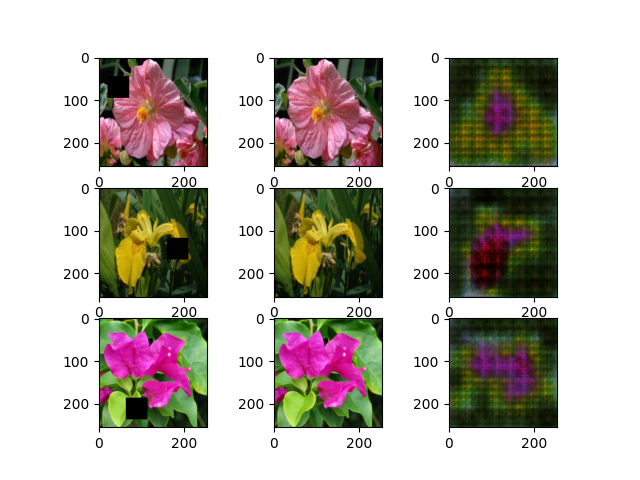
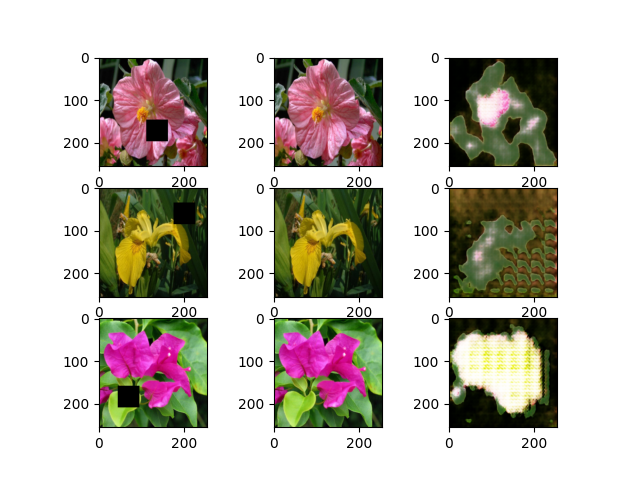
Final Retrain

diff --git a/train-flowers.py b/train-flowers.py
@@ -18,9 +18,9 @@ if not os.path.exists(plots_dir):
 use_cuda = torch.cuda.is_available()
 device = torch.device('cuda' if use_cuda else 'cpu')
 
-BATCH_SIZE = 16
-EPOCHS = 100
-LEARNING_RATE = 0.00001
+BATCH_SIZE = 4
+EPOCHS = 200
+LEARNING_RATE = 0.0001
 SAVE_EVERY = 10
 PLOT_EVERY = 10
 
